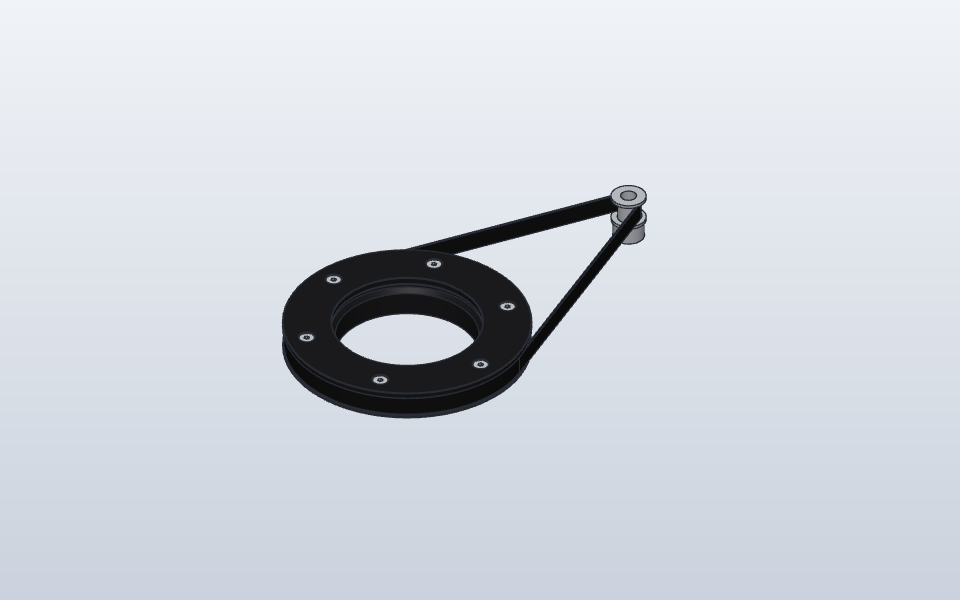
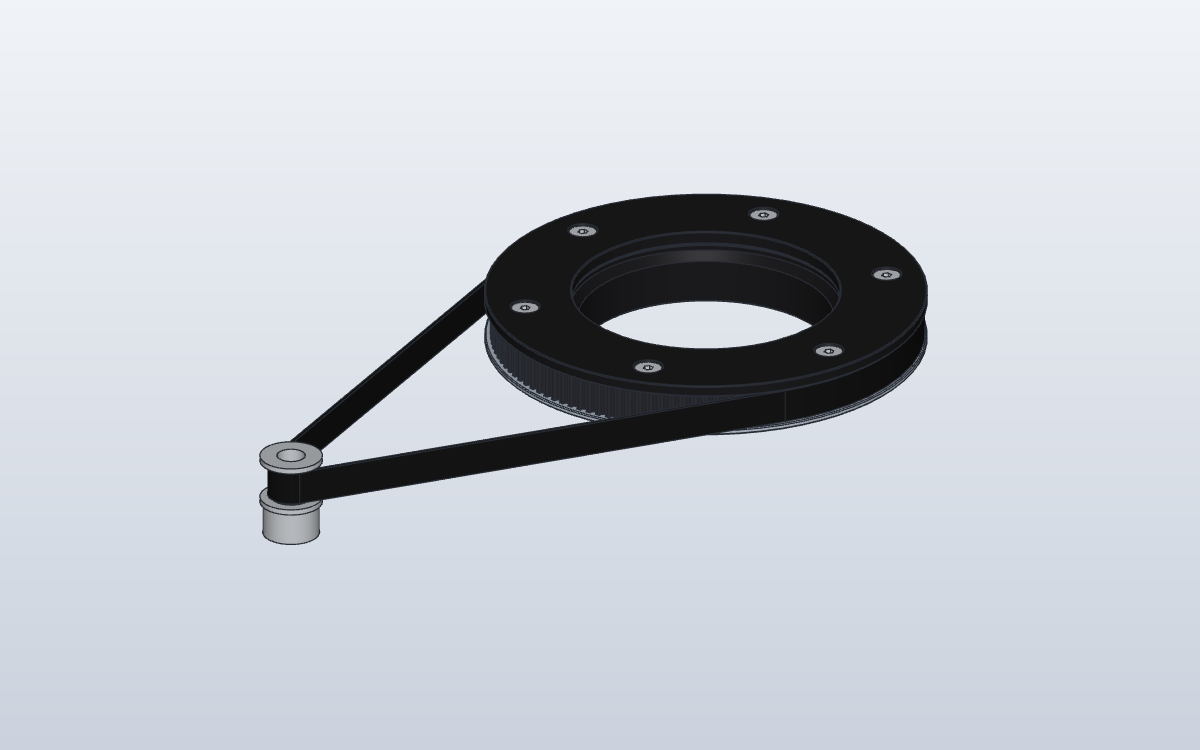
docs: re-render assembly and exploded views from the split CAD (#5)
Hero image from the current assembly (outer ring + sleeve split), closer framing;
exploded view re-rendered from the label_exploded.py recipe, belt and outer-ring
callouts swapped so no leader lines cross.

Changed region(s): [[0.2188, 0.24, 0.7812, 0.75]]

diff --git a/docs/label_exploded.py b/docs/label_exploded.py
@@ -43,8 +43,8 @@ items = [
     ("5", "Bearing THK RAU5005", (982, 550), 285),
     ("2", "Spacer ring (milled Al)", (966, 615), 360),
     ("4b", "GT2 sleeve (printed PETG)", (1021, 690), 435),
-    ("4a", "Outer ring (milled Al)", (1023, 785), 510),
-    ("8", "GT2 belt 340 mm", (760, 757), 585),
+    ("8", "GT2 belt 340 mm", (760, 757), 510),
+    ("4a", "Outer ring (milled Al)", (1023, 785), 585),
     ("7", "GT2 pulley 12T (on motor)", (455, 830), 660),
 ]
 lx = im.width + 40
